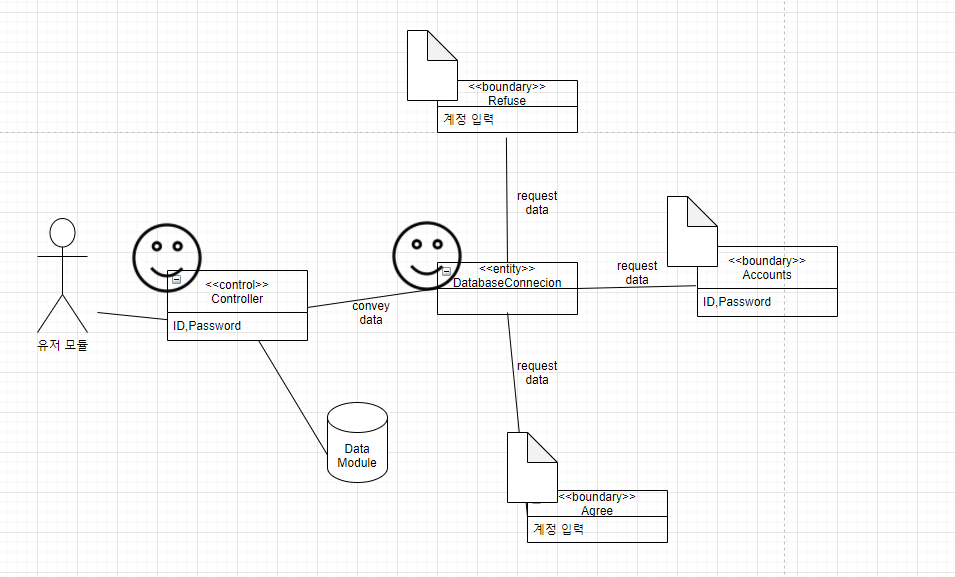
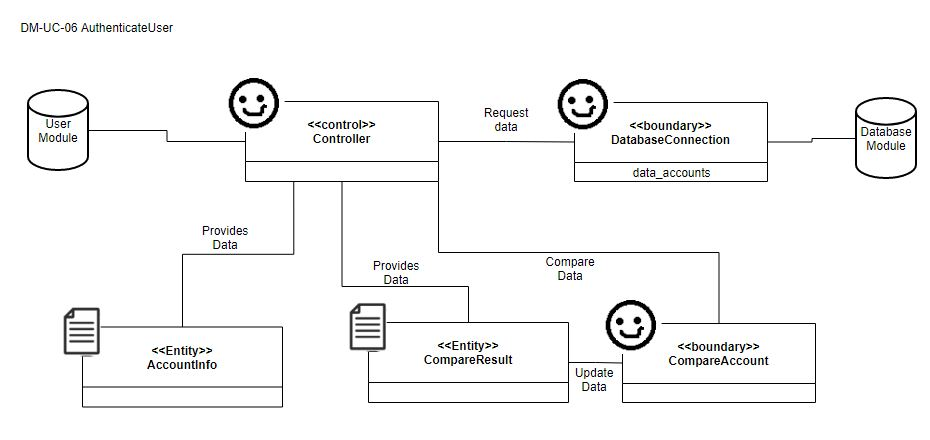
Update: DM-UC-06-ECB model

diff --git a/Documents/Domain model/DM_UC-06.md b/Documents/Domain model/DM_UC-06.md
@@ -19,6 +19,8 @@
 | Controller  <->  DatabaseConnection  |  데이터 베이스의 계정들을 요청한다.  | request data |
 | Controller  <->  CompareAccount | AccountInfo와 데이터베이스의 계정들을 비교한다. | compare data |
 | CompareAccount <-> CompareResult | 비교한 결과를 CompareResult에 저장한다 | update data |
+| AccountInfo <-> Controller | 비교하려는 AccountInfo를 전달한다. | provide data |
+| CompareResult <-> Controller | 비교한 결과를 Controller에 전달한다 | provide data |
 
 **3) Extracting the Attributes**
 
